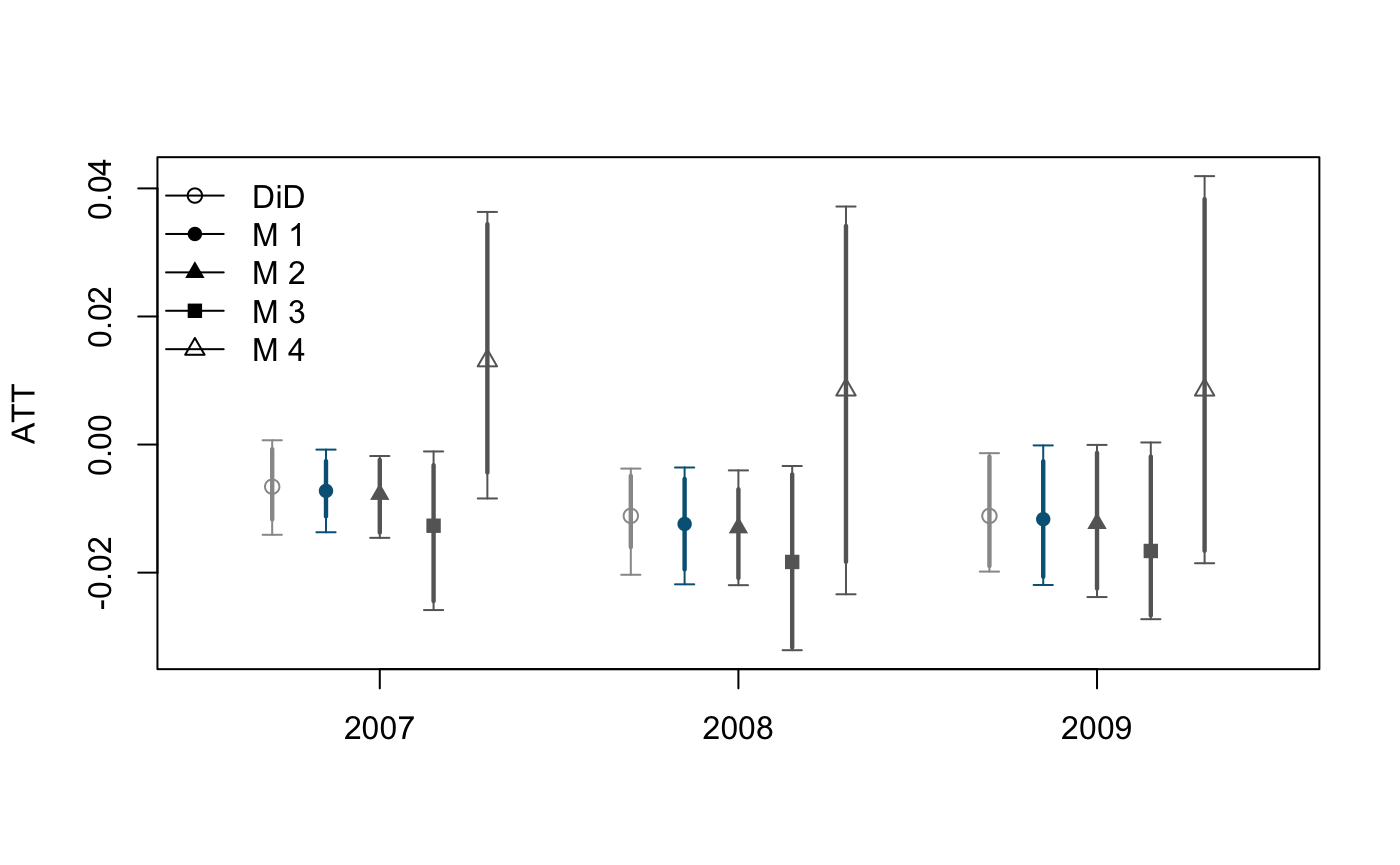
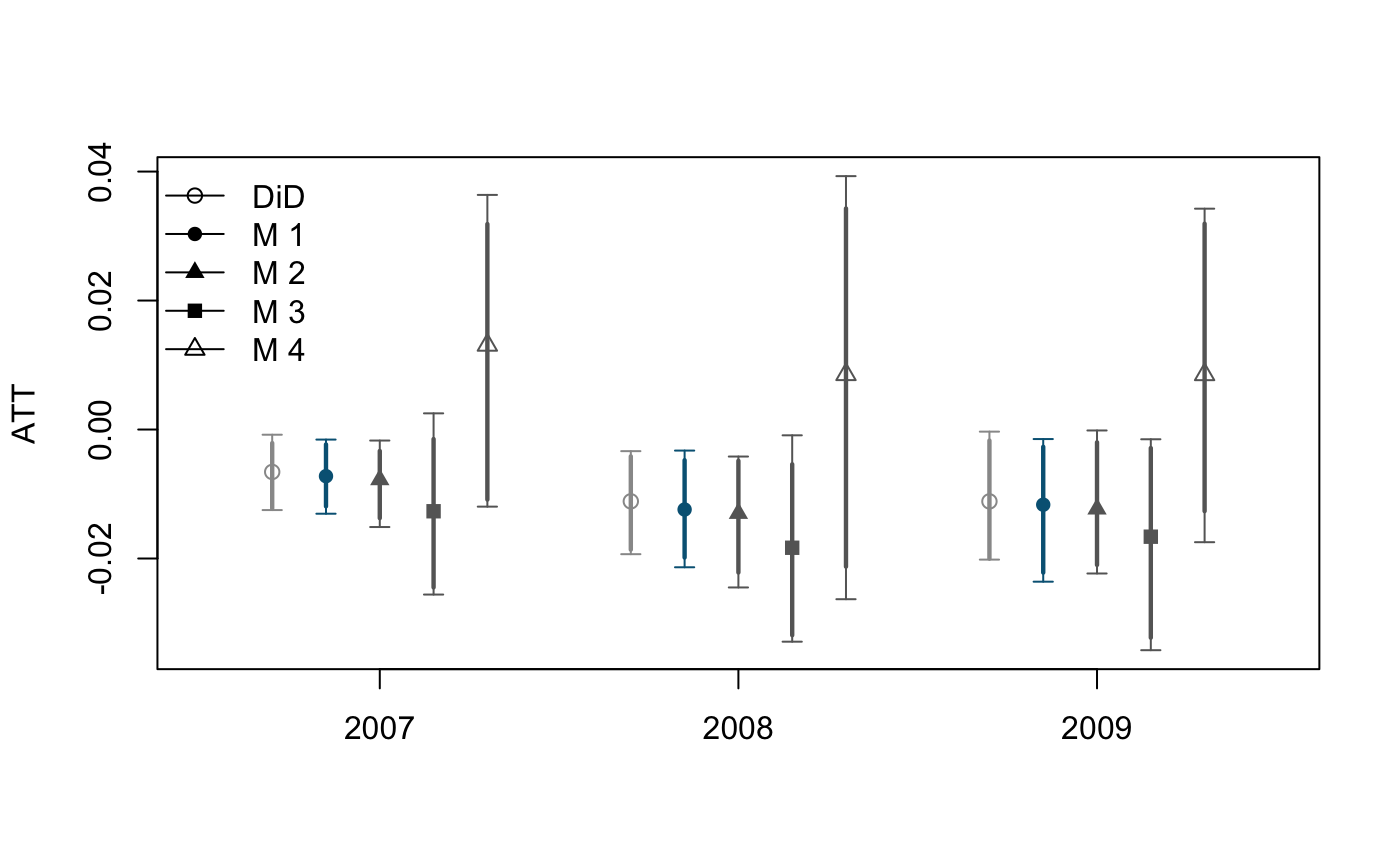
small fix

diff --git a/docs/articles/articles/diddesign.html b/docs/articles/articles/diddesign.html
@@ -37,6 +37,12 @@
     <div id="navbar" class="navbar-collapse collapse">
       <ul class="nav navbar-nav">
 <li>
+  <a href="../../index.html">
+    <span class="fa fa-home fa-lg"></span>
+     
+  </a>
+</li>
+<li>
   <a href="../../articles/articles/diddesign.html">Example</a>
 </li>
 <li>
@@ -112,14 +118,14 @@ fit_np &lt;-<span class="st"> </span><span class="kw"><a href="../../reference/d
 
 <span class="co"># summary function </span>
 <span class="kw"><a href="https://www.rdocumentation.org/packages/base/topics/summary">summary</a></span>(fit_np)
-<span class="co">#&gt;                                2007             2008            2009</span>
-<span class="co">#&gt; 1   D-DiD      ATT           -0.007           -0.012          -0.012</span>
-<span class="co">#&gt; 2           95% CI [-0.014, -0.001] [-0.022, -0.004]     [-0.022, 0]</span>
-<span class="co">#&gt; 3              BIC          -18.018          -18.018         -18.018</span>
-<span class="co">#&gt; 4             HQIC           -9.147           -9.147          -9.147</span>
-<span class="co">#&gt; 5         Selected               M1               M1              M1</span>
-<span class="co">#&gt; 6 Std-DiD      ATT           -0.007           -0.011          -0.011</span>
-<span class="co">#&gt; 7           95% CI  [-0.014, 0.001]  [-0.02, -0.004] [-0.02, -0.001]</span>
+<span class="co">#&gt;                                2007             2008             2009</span>
+<span class="co">#&gt; 1   D-DiD      ATT           -0.007           -0.012           -0.012</span>
+<span class="co">#&gt; 2           95% CI [-0.013, -0.002] [-0.021, -0.003] [-0.024, -0.001]</span>
+<span class="co">#&gt; 3              BIC          -18.018          -18.018          -18.018</span>
+<span class="co">#&gt; 4             HQIC           -9.147           -9.147           -9.147</span>
+<span class="co">#&gt; 5         Selected               M1               M1               M1</span>
+<span class="co">#&gt; 6 Std-DiD      ATT           -0.007           -0.011           -0.011</span>
+<span class="co">#&gt; 7           95% CI [-0.012, -0.001] [-0.019, -0.003]       [-0.02, 0]</span>
 
 
 <span class="co"># plot results </span>

diff --git a/docs/articles/index.html b/docs/articles/index.html
@@ -67,6 +67,12 @@
     <div id="navbar" class="navbar-collapse collapse">
       <ul class="nav navbar-nav">
         <li>
+  <a href="../index.html">
+    <span class="fa fa-home fa-lg"></span>
+     
+  </a>
+</li>
+<li>
   <a href="../articles/articles/diddesign.html">Example</a>
 </li>
 <li>

diff --git a/docs/news/index.html b/docs/news/index.html
@@ -67,6 +67,12 @@
     <div id="navbar" class="navbar-collapse collapse">
       <ul class="nav navbar-nav">
         <li>
+  <a href="../index.html">
+    <span class="fa fa-home fa-lg"></span>
+     
+  </a>
+</li>
+<li>
   <a href="../articles/articles/diddesign.html">Example</a>
 </li>
 <li>

diff --git a/docs/reference/DIDdesign-package.html b/docs/reference/DIDdesign-package.html
@@ -71,6 +71,12 @@
     <div id="navbar" class="navbar-collapse collapse">
       <ul class="nav navbar-nav">
         <li>
+  <a href="../index.html">
+    <span class="fa fa-home fa-lg"></span>
+     
+  </a>
+</li>
+<li>
   <a href="../articles/articles/diddesign.html">Example</a>
 </li>
 <li>

diff --git a/docs/reference/anzia2012.html b/docs/reference/anzia2012.html
@@ -70,6 +70,12 @@
     <div id="navbar" class="navbar-collapse collapse">
       <ul class="nav navbar-nav">
         <li>
+  <a href="../index.html">
+    <span class="fa fa-home fa-lg"></span>
+     
+  </a>
+</li>
+<li>
   <a href="../articles/articles/diddesign.html">Example</a>
 </li>
 <li>

diff --git a/docs/reference/cugmm_loss_parametric.html b/docs/reference/cugmm_loss_parametric.html
@@ -70,6 +70,12 @@
     <div id="navbar" class="navbar-collapse collapse">
       <ul class="nav navbar-nav">
         <li>
+  <a href="../index.html">
+    <span class="fa fa-home fa-lg"></span>
+     
+  </a>
+</li>
+<li>
   <a href="../articles/articles/diddesign.html">Example</a>
 </li>
 <li>

diff --git a/docs/reference/cugmm_loss_parametric_resid.html b/docs/reference/cugmm_loss_parametric_resid.html
@@ -70,6 +70,12 @@
     <div id="navbar" class="navbar-collapse collapse">
       <ul class="nav navbar-nav">
         <li>
+  <a href="../index.html">
+    <span class="fa fa-home fa-lg"></span>
+     
+  </a>
+</li>
+<li>
   <a href="../articles/articles/diddesign.html">Example</a>
 </li>
 <li>

diff --git a/docs/reference/cugmm_var_parametric.html b/docs/reference/cugmm_var_parametric.html
@@ -70,6 +70,12 @@
     <div id="navbar" class="navbar-collapse collapse">
       <ul class="nav navbar-nav">
         <li>
+  <a href="../index.html">
+    <span class="fa fa-home fa-lg"></span>
+     
+  </a>
+</li>
+<li>
   <a href="../articles/articles/diddesign.html">Example</a>
 </li>
 <li>

diff --git a/docs/reference/cugmm_var_parametric_resid.html b/docs/reference/cugmm_var_parametric_resid.html
@@ -70,6 +70,12 @@
     <div id="navbar" class="navbar-collapse collapse">
       <ul class="nav navbar-nav">
         <li>
+  <a href="../index.html">
+    <span class="fa fa-home fa-lg"></span>
+     
+  </a>
+</li>
+<li>
   <a href="../articles/articles/diddesign.html">Example</a>
 </li>
 <li>

diff --git a/docs/reference/did.html b/docs/reference/did.html
@@ -70,6 +70,12 @@
     <div id="navbar" class="navbar-collapse collapse">
       <ul class="nav navbar-nav">
         <li>
+  <a href="../index.html">
+    <span class="fa fa-home fa-lg"></span>
+     
+  </a>
+</li>
+<li>
   <a href="../articles/articles/diddesign.html">Example</a>
 </li>
 <li>

diff --git a/docs/reference/did_data.html b/docs/reference/did_data.html
@@ -70,6 +70,12 @@
     <div id="navbar" class="navbar-collapse collapse">
       <ul class="nav navbar-nav">
         <li>
+  <a href="../index.html">
+    <span class="fa fa-home fa-lg"></span>
+     
+  </a>
+</li>
+<li>
   <a href="../articles/articles/diddesign.html">Example</a>
 </li>
 <li>

diff --git a/docs/reference/did_nonparametric.html b/docs/reference/did_nonparametric.html
@@ -70,6 +70,12 @@
     <div id="navbar" class="navbar-collapse collapse">
       <ul class="nav navbar-nav">
         <li>
+  <a href="../index.html">
+    <span class="fa fa-home fa-lg"></span>
+     
+  </a>
+</li>
+<li>
   <a href="../articles/articles/diddesign.html">Example</a>
 </li>
 <li>
